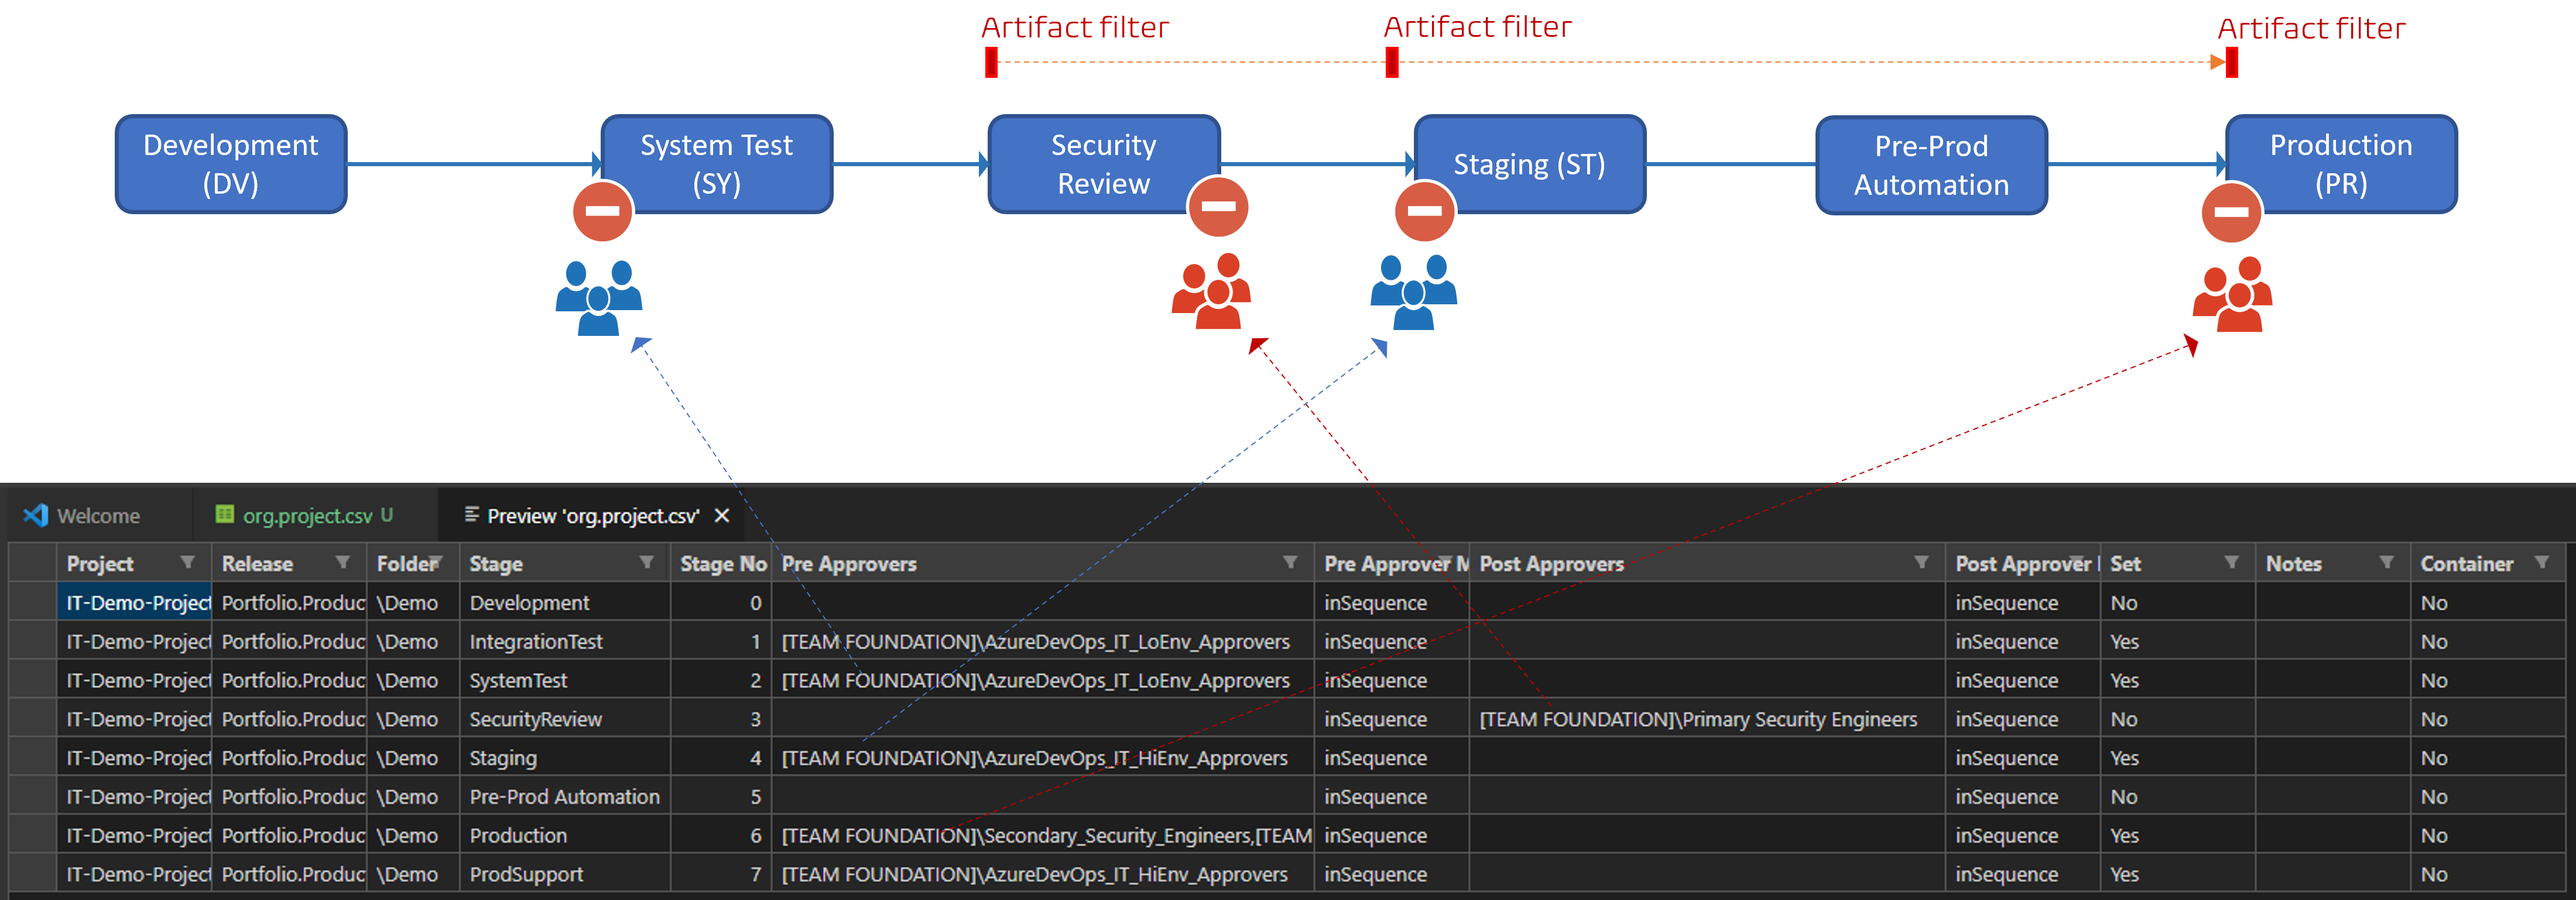
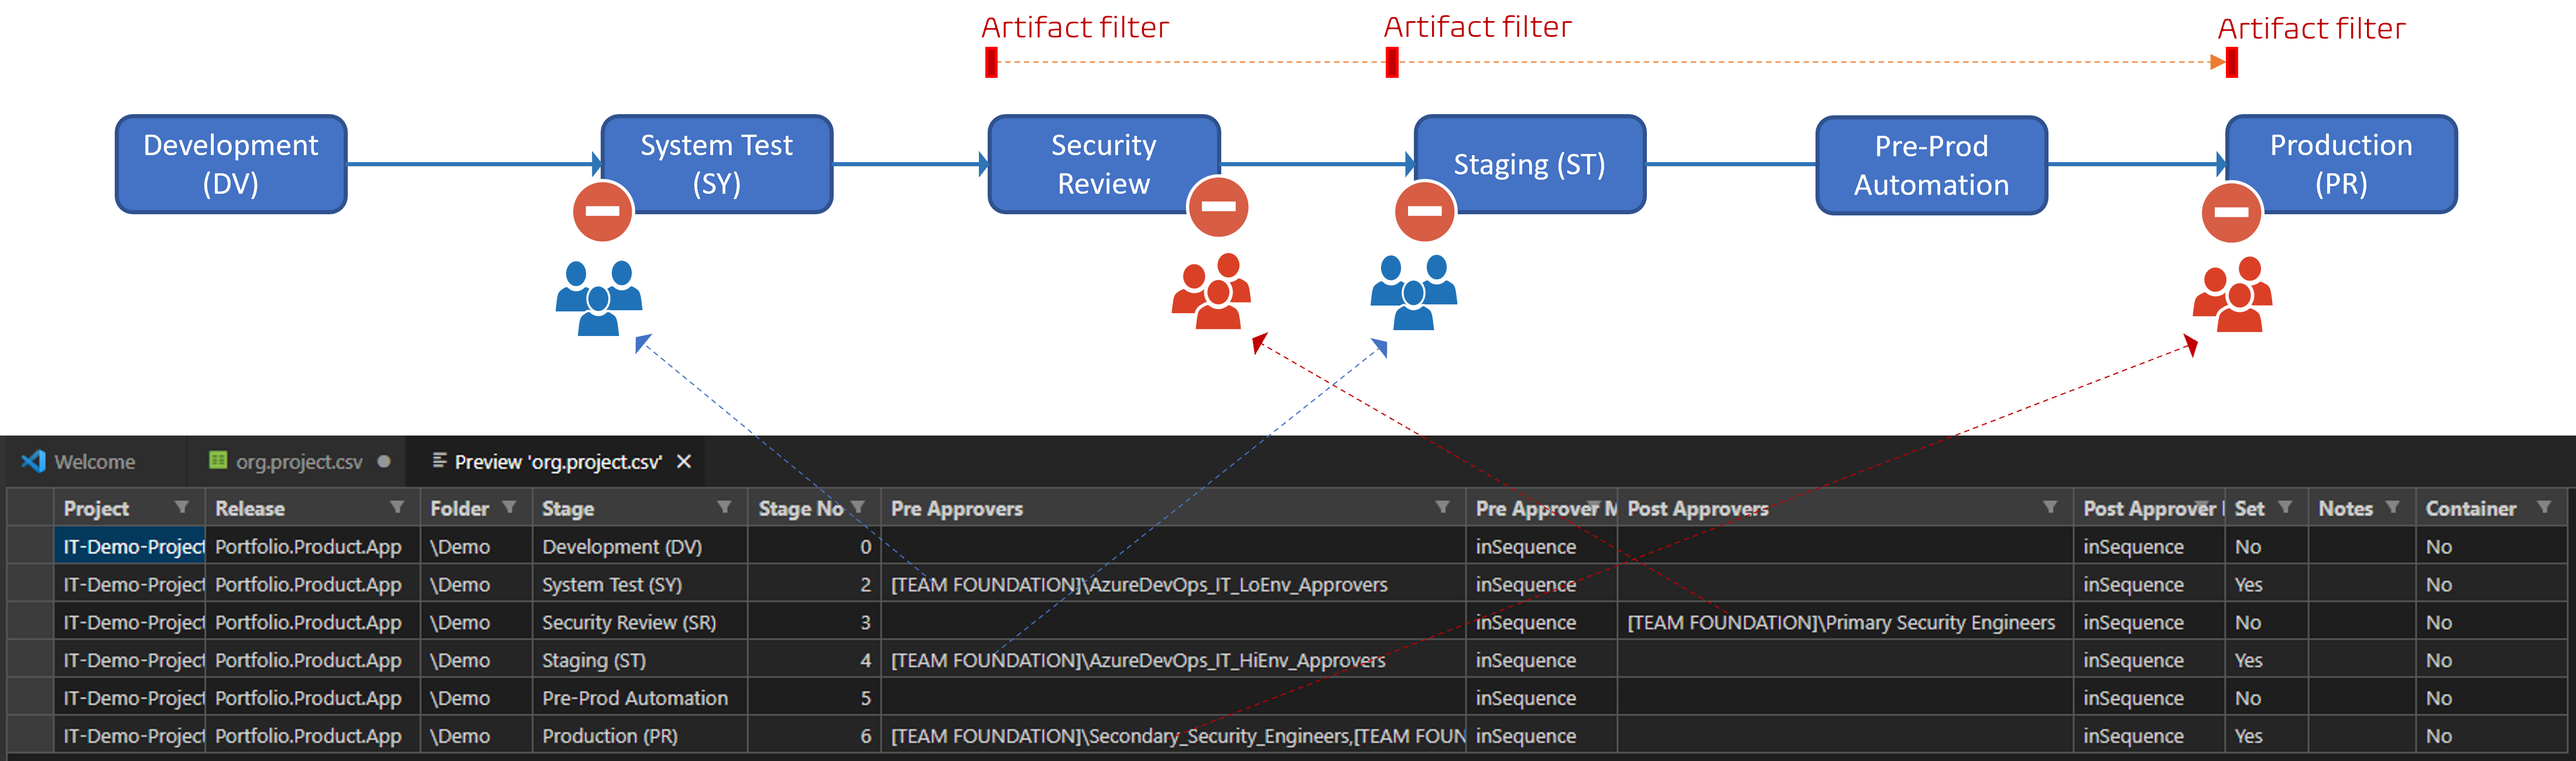
Reviewer DRAFT

diff --git a/content/azure-devops-automation-bad-day.md b/content/azure-devops-automation-bad-day.md
@@ -4,9 +4,15 @@ Category: Posts
 Tags: azure-devops, pipelines
 Slug: automation-bad-day
 Author: Willy-Peter Schaub
-Summary: It was our turn to have day from automation hell.
+Summary: Clearly yesterday was a bad day.
 
-<OVERVIEW>
+"_Clearly yesterday was a bad day_" is a quote by [Brian Harry](https://www.linkedin.com/in/brharry/) in his [Bad Day](https://devblogs.microsoft.com/bharry/bad-day/) blog post. I vividly remember that day as I had the honour of working for Brian at the time and learning a ton from him about the value of transparency, not getting discouraged by hindsight, and always being laser focused on our end-users. Our day was nowhere as bad as Brian's, but worth sharing. 
+
+In an operational environment with 2500 classic Azure Pipelines and more than a dozen engineers manually updating the pre- and post-approval gates we began to struggle with snowflakes, guardrail breaches, and failed security audits. We configured the pre-and post-approval gates in CSV files and stored them in version control – our config-as-code (**c-a-c**) era was born. The CSV files and associated automation using the Azure DevOps [REST API](https://learn.microsoft.com/en-us/rest/api/azure/devops/?view=azure-devops-rest-7.1), allows us to consistently re-apply the last known good configuration for thousands of classic Azure Pipelines in minutes on a weekly basis.
+
+> **Outcome**: Consistency, standardization, security, and time-savings!
+
+Let us have a peak at one of our demo ```c-a-c``` files to understand the automation process.
 
 ---
 
@@ -14,46 +20,69 @@ Summary: It was our turn to have day from automation hell.
 
 > ![c-a-c](../images/azure-devops-automation-bad-day-1.png)
 
-<TBD>
+At the top is a typical Azure Pipeline, delivering artifacts to a number of stage environments, with four humanoid gates.
+
+At the bottom is a demo ```c-a-c``` CSV file, with one row per stage. Each row defines the pre approver(s), the post-approver(s), and the approval method. When our ```c-a-c``` automation runs, it restores the Azure Pipeline pre- and post-approvals to the last known and desired configuration if the Set value is ```Yes```. In other words, if you fiddle with the approvals manually, the automation will overwrite your changes when it runs.
+
+Although the actual [REST API](https://learn.microsoft.com/en-us/rest/api/azure/devops/?view=azure-devops-rest-7.1) logic is not trivial, our ```c-a-c``` concept is.
 
 ---
 
 # Meltdown timeline
 
+Our bad day actually started on March 2nd at high-noon, when my colleague Daniel ran the latest ```c-a-c``` file I fine-tuned for hours. Fortunately, I opted against a big-bang ```c-a-c``` reset and only had about 15% of the 2,500 Azure Pipelines and their stages configured with ```Set=Yes```. The automation ran like a dream.
+
+At around 15:00 our delivery teams reported that their pipelines were failing, unable to connect to an agent. At first, we all suspected our automation, because the [Azure DevOps Status](https://status.dev.azure.com/) was showing an ```Everything is looking good``` status.
+
 > ![timeline](../images/azure-devops-automation-bad-day-2.png)
 
-<TBD>
-
-[Pipeline error: Failure in sending the provision message](https://status.dev.azure.com/_event/371776903)
-
+Eventually after a barrage of tweets, Teams chats, and raising Microsoft Support tickets the [Azure DevOps Status](https://status.dev.azure.com/) switched to an ```unhealthy``` status due to the [Pipeline error: Failure in sending the provision message](https://status.dev.azure.com/_event/371776903) incident. Little did we know that this incident actually reduced the blast radius of our bad day, as most teams opted for another day by the time the Azure Agents were back to a healthy state. 
 
 ---
 
-# 2AM CALL @ high-noon
+# 2AM CALL @ high noon
+
+Just before high-noon we were getting pulled into **all hands-on deck**, also known as the **infamous 2AM-call** collaboration sessions. One of our Azure Pipelines had deployed all the way to production after getting the ```thumbs-up``` from our security engineers, skipping our **Staging (ST)** and **Production (PR)** pre-approval gates. By passing change control is a severe issue. Luckily our operational support engineers delivered their usual exceptional operational support and reverted the incorrect production deployment within minutes to minimize negative end-user impact. 
 
 > ![](../images/azure-devops-automation-bad-day-5.png) 
 
-<TBD>
+In parallel we started the brainstorming and root-cause analysis of our Azure Pipelines. 
 
 > ![c-a-c meltdown](../images/azure-devops-automation-bad-day-3.png) 
 
-<TBD>
+We determined that the automation run, from the previous day, had purged, not set, the pre-approver(s) for all processed pipelines. In other words, the only gate between production and the delivery teams was the Security Review **post**-approver.
 
 ---
 
 # Core Issue
 
+As all software glitches, the root cause was a trivial typo. Note the missing ```s``` in the **Pre Approver** column header.
+
 > ![core issue](../images/azure-devops-automation-bad-day-4.png) 
 
-<TBD>
+As a result, the automation did exactly what my configuration file instructed it to do.
+
+- System Test (SY), Staging (SR), and Production (PR) Stage were updated as ```Set=Yes```.
+- Pre-approvers were purged as the value for ```Pre-Approvers``` was ```null```.
+
+Another quote from Brian's post comes to mind here: "_The hard thing about this is that anything can go wrong and it’s only obvious in hindsight what you should have been protecting against_".
 
 ---
 
 # Remediate & Learn
 
-<TBD>
+Our focus was, as expected, to restore the health of our Azure Pipelines. Fortunately, only a small subset of Azure Pipelines was affected, thanks to Microsoft outage and our close collaboration with our DevSecOps team.
+
+- Pipelines not triggered by a change to the ```release``` branch, were stopped by our artifact filters.
+- Pipelines that made it through to the **Security Review** stage, where stopped cold by our security engineers.
+
+In parallel we fixed the ```c-a-c``` header and triggered the automation to undo the damage. We also took the opportunity to add pre-automation validation to reduce the likelihood of a recurrence.
+
+And, most importantly, we shared the status of the incident, analysis, root cause, and remediation transparently. 
 
 ---
 
-<CLOSE - SUMMARY >
+A huge **THANK YOU** to our vigilant delivery team, security engineers, operations engineers, and my team for keeping cool and focused throughout the turbulent Friday.
+
+Only one pipeline, the one that triggered the incident, made it through to production. It could have been a lot worse!
 
